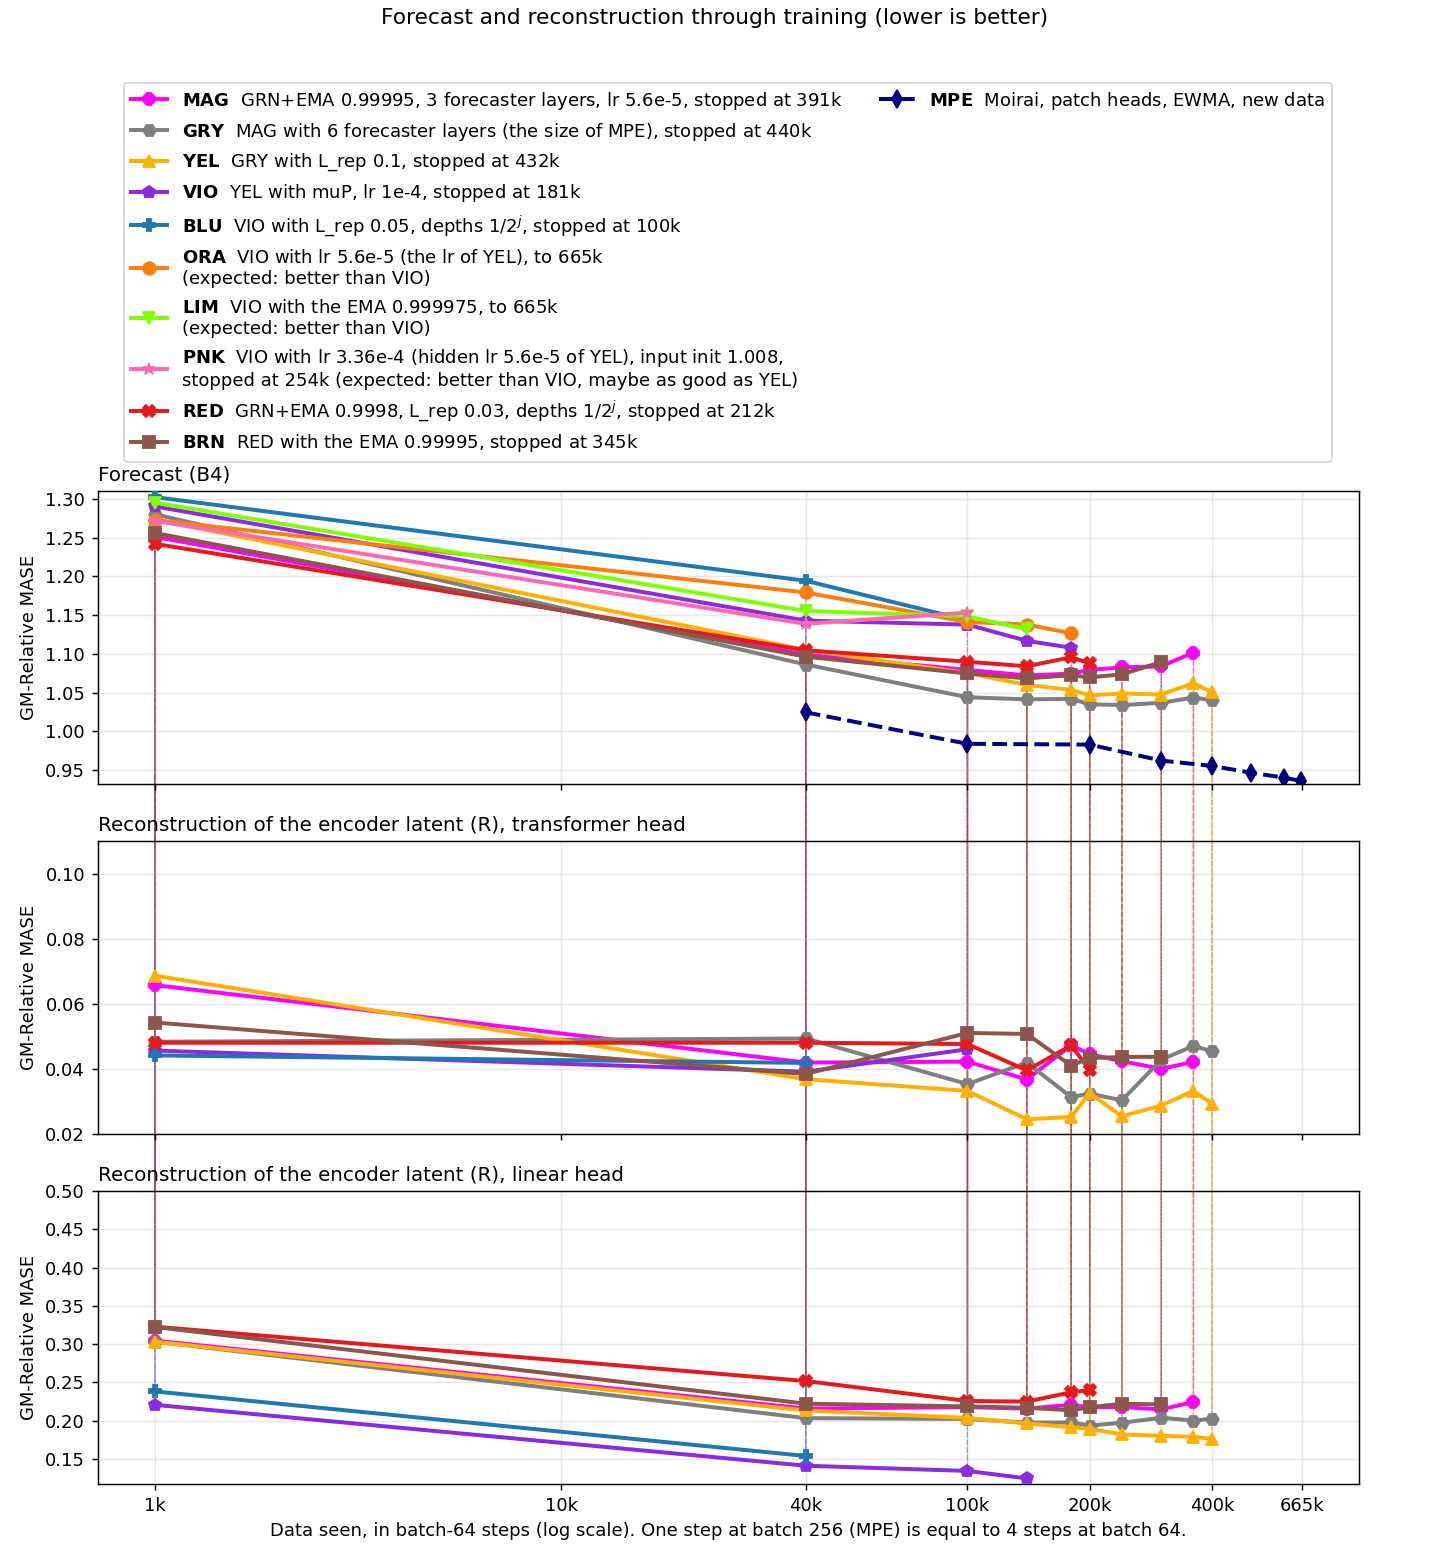
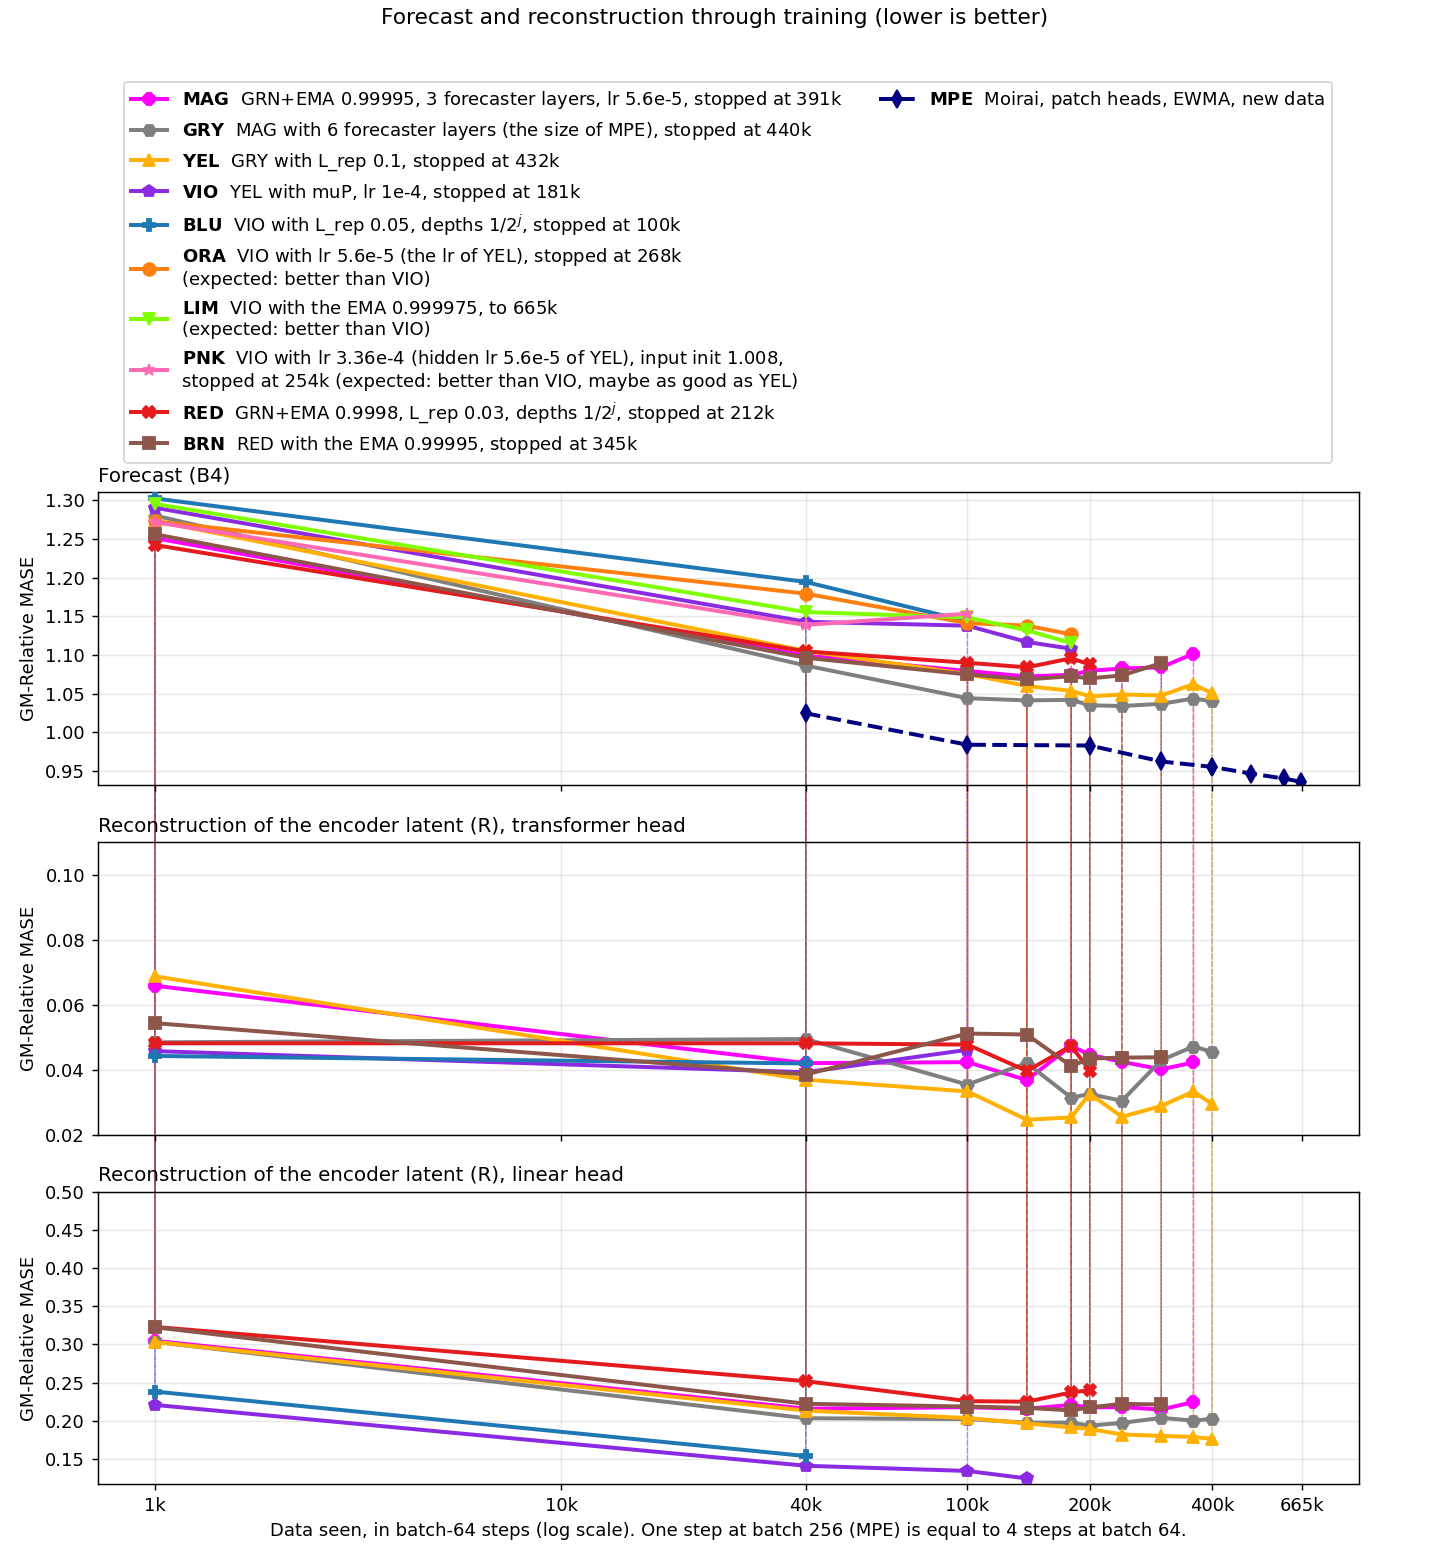
freq_family report: lime's 180k forecast; orange stopped at 268k in the legend

diff --git a/reports/2026-10-10_frequency_family_head/scripts/plot_green_scores.py b/reports/2026-10-10_frequency_family_head/scripts/plot_green_scores.py
@@ -106,7 +106,7 @@ RUNS = [
      r"$\mathbf{BLU}$  VIO with L_rep 0.05, depths $1/2^j$, stopped at 100k",
      GRN_EMA099995_F6_REP005_HALVING_MUP_COLOUR, "P"),
     (GRN_EMA099995_F6_REP01_MUP_LR56,
-     r"$\mathbf{ORA}$  VIO with lr 5.6e-5 (the lr of YEL), to 665k" "\n"
+     r"$\mathbf{ORA}$  VIO with lr 5.6e-5 (the lr of YEL), stopped at 268k" "\n"
      "(expected: better than VIO)", GRN_EMA099995_F6_REP01_MUP_LR56_COLOUR, "o"),
     (GRN_EMA0999975_F6_REP01_MUP,
      r"$\mathbf{LIM}$  VIO with the EMA 0.999975, to 665k" "\n"
